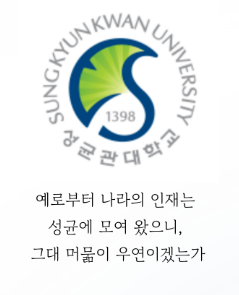
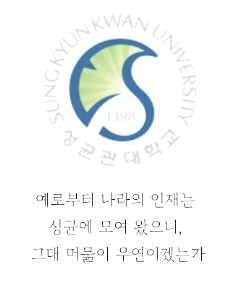
fix(skku-special): 로고 배경 투명화 + 자세히 보기 학교 목록으로 연결
- public/skku-slogan.png: alpha 기반 배경 제거 (밝을수록 투명)
  → hero 그린 배경에 자연스럽게 녹아듦
- Hero: 흰 카드 박스섀도우 제거, drop-shadow로 부드러운 글로우만 유지
- "자세히 보기" 버튼: /schools/sungkyunkwan → /schools 학교별 상세 목록으로 변경

diff --git a/src/components/skku-special/SkkuSpecialHero.tsx b/src/components/skku-special/SkkuSpecialHero.tsx
@@ -46,7 +46,7 @@ export const SkkuSpecialHero: React.FC<Props> = ({ onCtaClick, onDetailClick }) 
           2026학년도 · 8/2 개강 · 4회 압축 특강
         </div>
 
-        {/* 메인 비주얼: 성균관대 슬로건 + 로고 (크게 가운데) */}
+        {/* 메인 비주얼: 성균관대 슬로건 + 로고 (투명 PNG, hero 배경에 자연스럽게 녹아듦) */}
         <img
           src="/skku-slogan.png"
           alt={`성균관대학교 — ${skkuSpecial.slogan}`}
@@ -56,8 +56,7 @@ export const SkkuSpecialHero: React.FC<Props> = ({ onCtaClick, onDetailClick }) 
             maxWidth: '480px',
             height: 'auto',
             margin: '0 auto 3rem',
-            borderRadius: '20px',
-            boxShadow: '0 30px 80px -15px rgba(0,0,0,0.5)',
+            filter: 'drop-shadow(0 4px 24px rgba(255,199,44,0.15))',
           }}
           loading="eager"
         />

diff --git a/src/pages/SkkuSpecialPage.tsx b/src/pages/SkkuSpecialPage.tsx
@@ -31,7 +31,7 @@ export const SkkuSpecialPage: React.FC<Props> = ({ onNavigate }) => {
     <div className="animate-fade-in">
       <SkkuSpecialHero
         onCtaClick={scrollToCourse}
-        onDetailClick={() => onNavigate('/schools/sungkyunkwan')}
+        onDetailClick={() => onNavigate('/schools')}
       />
       <ExamScopeProofBox />
       <KeyDatesTimeline onNavigateToSchool={() => onNavigate('/schools/sungkyunkwan')} />
